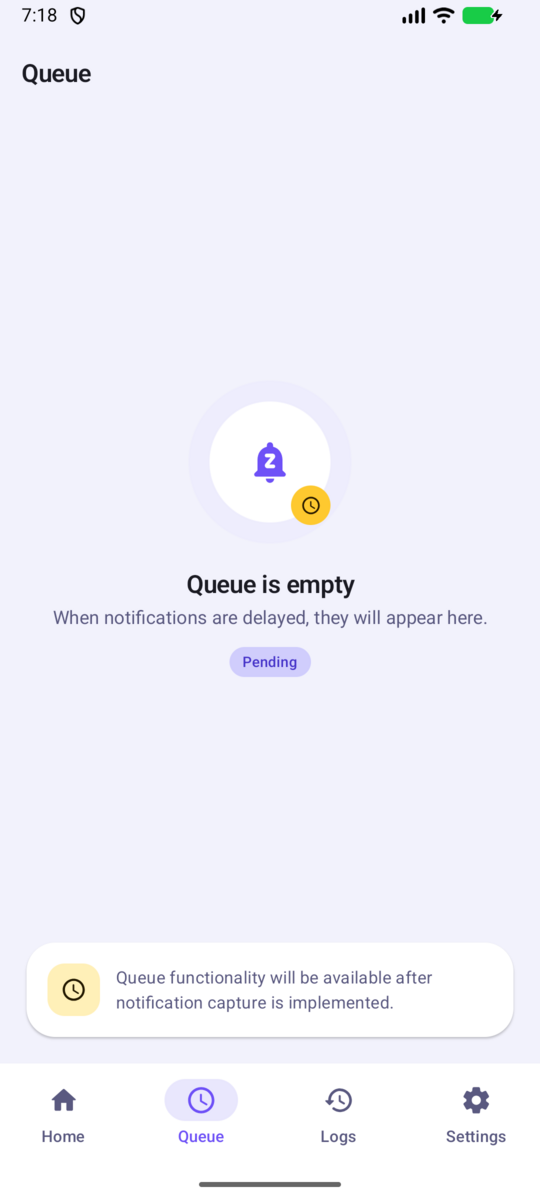
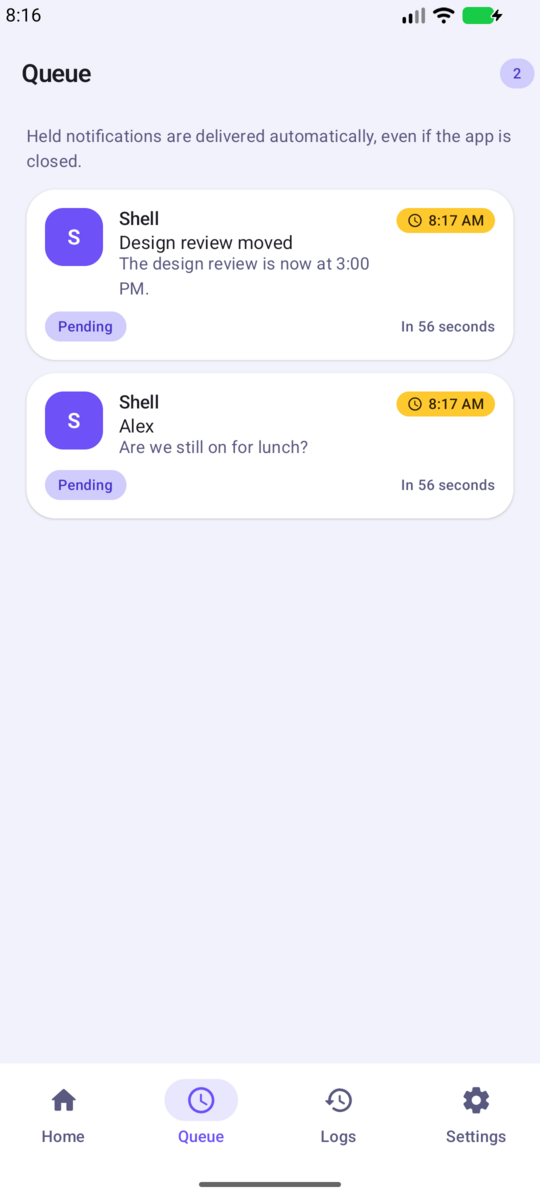
docs: document the notification pipeline and refresh screenshots
🤖 Generated with Codebuff

diff --git a/docs/architecture/notification-pipeline.md b/docs/architecture/notification-pipeline.md
@@ -1,120 +1,112 @@
 # Notification Pipeline — Notify Later
 
-> Phase 1 is a technical spike and not the final notification delivery implementation.
-
 ## Purpose
 
-When fully implemented, Notify Later will observe notifications, decide whether to deliver them immediately or hold them, and re-deliver held notifications on a schedule — all locally.
+Notify Later observes notifications, holds supported ones for a user-configured delay, and re-delivers them locally. Nothing leaves the device.
 
-## Conceptual Pipeline
-
-```
-Android Notification
-        |
-NotificationListenerService        // IMPLEMENTED (Phase 1 spike)
-        |
-Notification (domain model)        // IMPLEMENTED (capture + in-memory store)
-        |
-Rule Engine                        // NOT implemented (Phase 2)
-        |
-Immediate ------------------> User
-        |
-Delayed
-        |
-Notification Queue                 // NOT implemented (in-memory debug list only)
-        |
-Scheduler                          // NOT implemented (Phase 2)
-        |
-Notification Renderer              // PARTIAL: re-publishes immediately, no delay
-        |
-User
-```
-
-## Phase 1 Spike — What Is Implemented
-
-### NotificationListenerService
-
-`core/notifications/NotifyLaterNotificationListener.kt` extends `android.service.notification.NotificationListenerService`.
-
-- Registered in `AndroidManifest.xml` with `android.permission.BIND_NOTIFICATION_LISTENER_SERVICE` and the `android.service.notification.NotificationListenerService` intent action.
-- The system binds it only after the user grants **Notification access** in Android system settings. Notify Later never requests this via a runtime permission dialog; Settings links to `Settings.ACTION_NOTIFICATION_LISTENER_SETTINGS`.
-- Access state can be queried programmatically via `core/notifications/NotificationAccess.kt` (checks `enabled_notification_listeners` secure setting plus `NotificationManagerCompat.getEnabledListenerPackages`). It is never assumed from UI state alone.
-
-The service is an orchestrator only. Logic lives in dedicated components:
+## Implemented Pipeline
 
 ```
-NotificationListenerService (adapter)
+Android notification
         |
-RawNotification (framework values mapped to a plain structure)
+NotificationListenerService                 core/notifications/NotifyLaterNotificationListener.kt
         |
-NotificationCapture (pure Kotlin, unit-tested)
+Capture + safety filters                    core/notifications/NotificationCapture.kt
         |
-NotificationRepository (in-memory, bounded to 50 items)
+Persistent local store (dueAt + status)     data/repository/PersistentNotificationRepository.kt
         |
-Domain Notification -> future Rule Engine
+WorkManager job (one unique job per item)    core/scheduler/Scheduler.kt
+        |
+DeliverNotificationWorker                   core/scheduler/DeliverNotificationWorker.kt
+        |
+NotificationRenderer                        core/notifications/NotificationRenderer.kt
+        |
+Delayed notification shown by Android
 ```
 
-Output:
+The original notification is cancelled only after the captured item has been persisted and its delivery job scheduled.
 
-```
-Domain Notification
-        |
-NotificationRenderer
-        |
-Android NotificationManager
-```
+## Capture Rules
 
-### What Information Is Captured
+The listener maps a `StatusBarNotification` into `RawNotification` and lets the pure `NotificationCapture` rules decide. A notification is **not** captured when:
 
-| Field | Source | Notes |
-|-------|--------|-------|
-| `id` | generated | deterministic id from timestamp + key hash |
-| `sourcePackage` | `sbn.packageName` | identifies the source app |
-| `sourceApplicationName` | PackageManager label | falls back to package name |
-| `title` / `text` | notification extras | trimmed, length-limited (200/1000 chars) |
-| `timestamp` | `sbn.postTime` | original posting time |
-| `originalNotificationKey` | `sbn.key` | reference to the original |
-| `category` / `priority` | notification metadata | coarse metadata only |
+- it comes from Notify Later itself (prevents re-capture loops);
+- it comes from `android` or `com.android.systemui` (system chrome);
+- it is ongoing or a foreground-service notification;
+- it is a group summary;
+- its category is `call`, `alarm`, or `service`;
+- it has no notification key or a non-positive timestamp.
 
-### What Is Intentionally Ignored
+Title and text are trimmed and length-limited (200/1000 characters). App labels fall back to the package name. The captured model keeps the package, label, title, text, original timestamp, Android key, category, priority, status, due time, and delivery time.
 
-- Notifications posted by Notify Later itself (self-filter prevents recursion).
-- Actions, inline replies, big pictures, styles, progress, group semantics.
-- Anything beyond the minimal fields above.
+## Persistence
 
-### Connection Baseline (Initial Active Notifications)
+`PersistentNotificationRepository` stores the queue in app-private `SharedPreferences` as JSON.
 
-When `onListenerConnected()` fires, the listener snapshots `activeNotifications` keys into a thread-safe session filter (`NotificationSessionFilter`). Any subsequent event whose key belongs to that baseline is logged (`ignored initial active notification`) and never captured or re-published. This prevents unwanted "Delivered by Notify Later" copies of notifications that already existed (e.g., Gmail, Digital Wellbeing) when the listener connects or reconnects.
+- Pending notifications are **never dropped**.
+- Completed history is capped at 100 entries.
+- Notification data and settings are excluded from cloud backup and device transfer (`backup_rules.xml`, `data_extraction_rules.xml`).
+- The repository is local-only; there is no network, account, or telemetry.
 
-Race-condition handling: Android does not guarantee callback ordering, so all baseline state is lock-guarded; events arriving before the snapshot is recorded are ignored fail-safe. Blank keys fall through to the existing capture validation. The baseline lives for the connection session and is replaced on reconnection.
+Each notification moves through `PENDING` → `DELIVERED` (or `DISMISSED` / `EXPIRED` if a safety path applies). Pending updates from the same Android notification key keep their original `dueAt`, so a chatty app cannot extend its delay indefinitely or create duplicate queue rows.
 
-### Re-publication (Spike)
+## Scheduling and Delivery
 
-`core/notifications/NotificationRenderer.kt` creates one channel (`notify_later_default`) and posts a copy via `NotificationCompat`:
+The global delay is configured in Settings (30 seconds, 1 minute, 5 minutes, 15 minutes, or 1 hour; default 1 minute) and persisted by `PersistentSettingsRepository`.
 
-```
-WhatsApp
-Joao sent you a message
-Delivered by Notify Later
-```
+For each held notification:
 
-Spike limitations:
+1. `WorkManagerNotificationScheduler` enqueues a unique `OneTimeWorkRequest` with the remaining delay.
+2. `DeliverNotificationWorker` verifies the item is still pending and its due time has passed.
+3. The worker checks `POST_NOTIFICATIONS`, renders the notification, and only then marks it `DELIVERED` with a delivery timestamp.
+4. If posting is impossible or rendering fails, the item stays pending and WorkManager retries with backoff.
 
-- no per-app channels;
-- app icon used as small icon (per-source icons later);
-- no actions, inline replies, or rich styles beyond BigText;
-- posted immediately — there is no delay yet.
+On process start, the application re-enqueues any pending items using their original due time. This is a fallback for force-stops or OEM job cleanup; WorkManager also persists its own work across process death and reboot.
 
-## Safety Requirement (Critical)
+## Re-publication
 
-**Data safety > functionality.** During Phase 1 the listener NEVER cancels the original system notification. If capture fails, rendering fails, POST_NOTIFICATIONS is missing (Android 13+), or any exception occurs, the original notification remains available. No code path can permanently destroy a user notification.
+`NotificationRenderer` creates the `Delayed notifications` channel and posts a copy with:
 
-## Privacy Notes
+- a monochrome bell small icon tinted with the brand purple;
+- the original title and text (or the source app label when content is absent);
+- a subtext identifying the source app and Notify Later;
+- a content intent that opens the app.
 
-- Every stage stays on-device. No network, analytics, telemetry, or backend exists in this phase.
-- Storage is in-memory only (bounded list); nothing persists to disk. Room arrives in Phase 2 with retention and clear-data guarantees.
-- Debug logging is enabled only in debug builds and logs package names/keys only — never title/text content.
+Actions, inline replies, rich media, per-app channels, and source app icons are intentionally not reproduced in this MVP.
 
-## Status
+## Permissions and Safety
 
-Phase 1 spike complete (see roadmap). Next: Rule Engine + queue + scheduler (Phase 2).
+Two independent mechanisms are required:
+
+| Requirement | Purpose |
+|-------------|---------|
+| Notification Listener access | Read incoming notifications. Granted in Android settings. |
+| `POST_NOTIFICATIONS` (Android 13+) | Show the delayed copy. Requested from Settings. |
+
+Critical safety contract:
+
+- Without `POST_NOTIFICATIONS`, the listener leaves the original notification untouched instead of hiding it.
+- If persistence or scheduling fails, the original is left untouched.
+- If cancelling the original fails after scheduling, the job is cancelled and the item is marked dismissed, avoiding a duplicate later.
+- Calls, alarms, services, ongoing notifications, and system chrome are never delayed.
+- Debug builds log package names and keys, never notification content. Release builds emit no capture logs.
+
+## Testing
+
+Unit tests cover capture filters, session baseline behavior, repository deduplication, status updates, and completed-history clearing. The manual emulator pass covers:
+
+1. Granting notification access and `POST_NOTIFICATIONS`.
+2. Posting a notification from another app.
+3. Confirming the original disappears and appears as pending in Queue with a countdown.
+4. Waiting for the delay and confirming the re-posted notification contains the original content.
+5. Confirming Logs shows `Delivered` with a delivery time.
+6. Force-stopping and restarting the app with an item pending, then confirming delivery still occurs.
+7. Revoking `POST_NOTIFICATIONS` and confirming the original notification remains in the shade.
+
+## Out of Scope (Next)
+
+- Per-app rules, quiet hours, batching, and delivery windows.
+- Installed-app discovery and app management screens.
+- Rich notification reproduction and source app icons.
+- Exact delivery guarantees under Doze/OEM battery restrictions.
+- Dismiss/expire propagation from the re-posted notification back to the queue.

diff --git a/README.md b/README.md
@@ -61,13 +61,14 @@ Full details: [docs/product/principles.md](docs/product/principles.md)
 ## Current Status
 
 ```
-🚧 Early development — Phase 0 Foundation
+🚧 Early development — notification delay MVP working
 ```
 
-- Repository structure and documentation are being established.
-- Android project exists in `android/` with a minimal Compose + Material 3 app.
-- Notification interception, delay engine, queue, and scheduler are **not yet implemented**.
-- Contributions to foundation, documentation, and early architecture are welcome.
+- Android app built with Jetpack Compose + Material 3, available in English and Portuguese.
+- The notification listener captures new notifications, persists them locally, cancels the original, and re-delivers it after the delay configured in Settings.
+- Queue and Logs show pending and delivered notifications; Settings handles notification access, posting permission, and the global delay.
+- Per-app rules and installed-app detection are **not implemented yet**; the current MVP applies one global delay to every supported app.
+- Contributions to rules, reliability, testing, and documentation are welcome.
 
 See [Roadmap](docs/product/roadmap.md).
 
@@ -85,13 +86,13 @@ The repository is structured to allow a future `ios/` implementation sharing pro
 <p align="center">
   <img src="docs/assets/screenshots/onboarding.png" alt="Onboarding with the sleeping bell logo and the three product principles" width="240" />
   <img src="docs/assets/screenshots/home.png" alt="Home with the quiet status hero and shortcuts to Applications, Queue, Logs and Settings" width="240" />
-  <img src="docs/assets/screenshots/queue.png" alt="Empty Queue with the sleeping bell and the Pending badge" width="240" />
+  <img src="docs/assets/screenshots/queue.png" alt="Queue with two notifications held for later delivery and their live countdowns" width="240" />
 </p>
 
 <p align="center">
-  <img src="docs/assets/screenshots/logs.png" alt="Empty Logs screen with a real-time capture introduction" width="240" />
-  <img src="docs/assets/screenshots/settings.png" alt="Settings with notification access, preferences and about sections" width="240" />
-  <img src="docs/assets/screenshots/applications.png" alt="Applications screen showing that app detection is coming in a future update" width="240" />
+  <img src="docs/assets/screenshots/logs.png" alt="Logs showing delivered notifications with their delivery times" width="240" />
+  <img src="docs/assets/screenshots/settings.png" alt="Settings with permission cards, delivery delay, preferences and about sections" width="240" />
+  <img src="docs/assets/screenshots/applications.png" alt="Applications screen explaining that per-app rules are coming soon" width="240" />
 </p>
 
 <p align="center"><em>Debug build on Android, English, light theme. The interface is also available in Portuguese and in dark theme.</em></p>
@@ -160,10 +161,10 @@ Work lives in `android/`; product and architecture docs live in `docs/`.
 
 ## Roadmap
 
-- **Phase 0 — Foundation** — repo, architecture, docs, localization, CI ✓ _in progress_
-- **Phase 1 — Notification Capture** — `NotificationListenerService`, app detection, persistence
-- **Phase 2 — Delay Engine** — rules, queue, scheduler, rendering
-- **Phase 3 — User Experience** — onboarding, management, history, settings
+- **Phase 0 — Foundation** — repo, architecture, docs, localization, CI ✓ _complete_
+- **Phase 1 — Notification Capture** — `NotificationListenerService`, persistence ✓ _implemented; app detection pending_
+- **Phase 2 — Delay Engine** — queue, WorkManager scheduler, renderer ✓ _MVP implemented; per-app rules pending_
+- **Phase 3 — User Experience** — onboarding, history, settings ✓ _in progress; app management pending_
 - **Phase 4 — Reliability** — battery, permissions, resilience, a11y, tests
 - **Phase 5 — Community** — beta, translations, feedback
 - **Future** — iOS, advanced rules, profiles

diff --git a/docs/product/design.md b/docs/product/design.md
@@ -75,18 +75,22 @@ As quatro áreas principais — **Início, Fila, Registos e Definições** — v
 
 - **AppBar** — `TopAppBar` com `containerColor = background`, sem branding extra. Nos ecrãs principais não há seta de voltar (a barra inferior resolve a navegação).
 - **SoftCard** — `RoundedCornerShape(22dp)`, `containerColor = surface`, `elevation 1dp`. É o único contentor de cartão do sistema.
-- **QuietHero** — cartão roxo `primary` com o logo 56dp, um arco de relógio desenhado em `Canvas` e pílulas de estado (`Watching quietly` / `Notification access needed`). O arco anima uma única vez ao entrar na Home (1100 ms, `FastOutSlowInEasing`) e respeita a escala de animação do sistema.
+- **QuietHero** — cartão roxo `primary` com o logo 56dp, um arco de relógio desenhado em `Canvas` e pílulas de estado (`Watching quietly` / `Notification permissions needed`), incluindo a contagem de notificações em espera. O arco anima uma única vez ao entrar na Home (1100 ms, `FastOutSlowInEasing`) e respeita a escala de animação do sistema.
 - **ActionTile** — tile com altura mínima de 142dp para a grelha 2×2 da Home; cresce com a escala de fonte graças a `IntrinsicSize.Min` na linha. `accent = true` usa o amarelo do relógio para a Fila, o resto fica em `primaryContainer`.
 - **QuietEmptyState** — halo lilás de 124dp, círculo de superfície de 92dp, sino e badge amarelo de relógio. Usado em Fila, Registos, Aplicações e Detalhes.
 - **InitialAvatar** — inicial da aplicação num dos quatro tons da marca (nunca cores arbitrárias por hash).
 - **TimeBadge** — pílula amarela com ícone `Schedule`, para horas e contadores de tempo.
 - **NotifyScaffold** — estrutura comum de ecrã: `TopAppBar`, insets e fundo. Evita divergência entre telas.
+- **Queue item** — cartão de notificação em espera com avatar, app, título, texto, hora prevista e contagem decrescente (`In 54 seconds`). O badge `Pending` usa o amarelo do relógio.
+- **Permission card** — cartão reutilizável para acesso a notificações e `POST_NOTIFICATIONS`: estado real (`Granted` / `Not granted`), explicação e um único botão de ação.
+- **Delay dialog** — `AlertDialog` com opções de 30 segundos, 1, 5, 15 e 60 minutos; a escolha aplica-se imediatamente e persiste.
+- **Logs item** — estado (`Pending` / `Delivered` / `Dismissed` / `Expired`) com hora prevista ou de entrega, para tornar o atraso visível e auditável.
 - **Buttons** — filled primary 14–18dp, text secondary. Um primário por ecrã.
 
 ## Estados
 
 - **Vazio** — sempre uma ação ou uma explicação, nunca apenas “nada aqui”.
-- **Permissão** — o cartão de acesso a notificações mostra o estado real (`Granted` / `Not granted`) e um botão que abre as definições do sistema.
+- **Permissão** — os cartões de acesso a notificações e de postagem mostram o estado real (`Granted` / `Not granted`); o primeiro abre as definições do sistema, o segundo pede `POST_NOTIFICATIONS`. A Home trata qualquer permissão em falta como bloqueio.
 - **Acessibilidade** — alvos de toque ≥ 48dp, `contentDescription` em ícones de navegação, texto com contraste ≥ 4.5:1, tipografia em `sp`.
 
 Ver telas: `feature/home/HomeScreen.kt`, `feature/onboarding/OnboardingScreen.kt`, `feature/logs/LogsScreen.kt`, `feature/settings/SettingsScreen.kt`, `navigation/AppShell.kt`.

diff --git a/docs/android/permissions.md b/docs/android/permissions.md
@@ -14,24 +14,26 @@ Notify Later depends on two distinct Android mechanisms that are often conflated
 - NOT a runtime permission. There is no dialog API. It is granted only when the user enables the app under *Settings > Notifications > Device & app notifications* (or equivalent OEM path).
 - Implementation: `core/notifications/NotifyLaterNotificationListener.kt`, registered with `android.permission.BIND_NOTIFICATION_LISTENER_SERVICE`.
 - State detection: `core/notifications/NotificationAccess.kt` queries `Settings.Secure "enabled_notification_listeners"` and `NotificationManagerCompat.getEnabledListenerPackages`. UI reads this on every screen entry so revoked access is detected without relying on cached UI state.
-- UX: an explicit card/button opens `Settings.ACTION_NOTIFICATION_LISTENER_SETTINGS`; the user leaves the app to grant it. Revocable at any time from the same screen; the service unbinds automatically.
-
-> Phase 1 is a technical spike and not the final notification delivery implementation.
+- UX: an explicit card/button opens `Settings.ACTION_NOTIFICATION_LISTENER_SETTINGS`; the user leaves the app to grant it. Revocable at any time from the same screen; the service unbinds automatically. Settings refreshes the state on resume.
 
 ### 2. POST_NOTIFICATIONS (runtime permission, Android 13+ / API 33+)
 
 - Grants the ability to **post** notifications as Notify Later.
-- Requested at runtime like normal dangerous permissions (relevant from Phase 2 onward, when delayed re-delivery ships). In the Phase 1 spike the renderer checks `PermissionHelper.hasPostNotificationsPermission` and fails safe by not posting if missing.
+- Requested at runtime from the Settings permission card via `ActivityResultContracts.RequestPermission`.
+- The listener checks this permission before cancelling an original notification. Without it, the original is left untouched. The delivery worker also checks it and retries instead of dropping a queued notification.
 - Having listener access does NOT imply POST_NOTIFICATIONS, and vice versa. They must be treated independently everywhere in the codebase.
+- Both permissions are required end-to-end: listener access to capture, POST_NOTIFICATIONS to re-deliver.
 
 ## Current Permission Matrix
 
 | Capability | Mechanism | Status |
 |-----------|-----------|--------|
-| Observe other apps' notifications | Notification Listener (special access) | Implemented (Phase 1 spike) |
-| Post Notify Later notifications | `POST_NOTIFICATIONS` (API 33+) | Checked fail-safe; formal request flow in Phase 2/3 |
-| Scheduling exact delivery | WorkManager / AlarmManager | Not implemented |
+| Observe other apps' notifications | Notification Listener (special access) | Implemented; required for capture |
+| Post Notify Later notifications | `POST_NOTIFICATIONS` (API 33+) | Implemented with in-app request; required for re-delivery |
+| Delayed delivery | WorkManager (deferrable work) | Implemented; not an exact alarm |
 | Location, contacts, storage, camera, microphone | — | Never needed; out of scope |
+
+Delivery timing is best-effort: Doze, App Standby, and OEM battery policies can defer WorkManager jobs. The app never holds an original notification unless it can persist it and re-post it later.
 
 ## Security Relevance
 

diff --git a/docs/product/roadmap.md b/docs/product/roadmap.md
@@ -17,21 +17,21 @@ This roadmap describes intended phases. Dates are not committed; order is intent
 - CI: `android.yml` builds and runs unit tests
 - License Apache-2.0, SECURITY.md, CODE_OF_CONDUCT.md
 
-Status: **in progress** (this phase).
+Status: **complete**.
 
 ## Phase 1 — Notification Capture
 
-*Observe and persist notification metadata without yet delaying.*
+*Observe and persist notification metadata safely.*
 
 - `NotificationListenerService` (permission-gated, user-consented)
-- Detect installed applications (package manager query)
+- Detect installed applications (package manager query) — pending
 - Capture notifications, identify source application
-- Persist notification metadata locally (Room) — schema to be designed, respecting privacy (minimal fields, retention policy)
+- Persist notification metadata locally — implemented with an app-private store; Room migration pending
 - Basic permission handling and onboarding for notification access
 
-Success criteria: the app can list which apps have sent notifications and when, locally, without altering delivery.
+Success criteria: new notifications are captured, filtered safely, and persisted locally without hiding anything that cannot be re-posted.
 
-Status: **spike implemented** — listener, capture, in-memory debug view, and safe re-publication validated; persistence and final UX pending.
+Status: **implemented (MVP)** — listener, filters, persistent store, and unit tests. Installed-app detection and Room migration pending.
 
 ## Phase 2 — Delay Engine
 
@@ -44,6 +44,8 @@ Status: **spike implemented** — listener, capture, in-memory debug view, and s
 - Notification renderer — re-post held notifications at scheduled time
 - Pipeline: see `docs/architecture/notification-pipeline.md`
 
+Status: **MVP implemented** — global configurable delay, persistent queue, WorkManager scheduler, re-delivery, and retry safety. Per-app rules, batching, and queue cancellation pending.
+
 ## Phase 3 — User Experience
 
 *Onboarding, management, and everyday use.*
@@ -54,6 +56,8 @@ Status: **spike implemented** — listener, capture, in-memory debug view, and s
 - Queue screen: pending, delivered, dismissed
 - History and Settings: retention, clear data, language, about
 - Accessibility pass and visual polish per `docs/product/design.md`
+
+Status: **in progress** — onboarding, queue, history/logs, and settings (delay + permissions) implemented; app management and rule configuration pending.
 
 ## Phase 4 — Reliability
 
